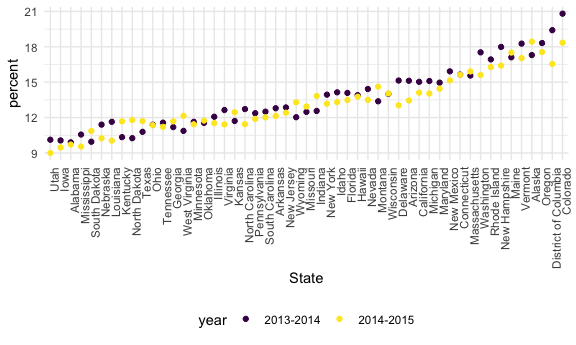
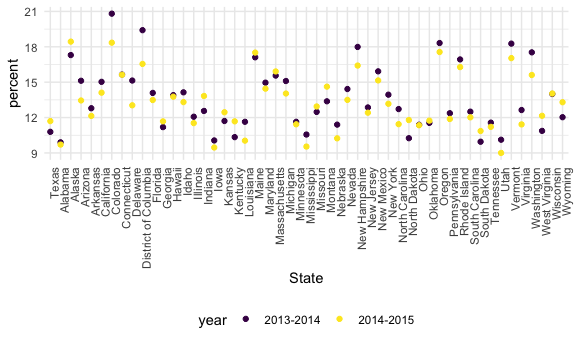
NSDUH -- FACTORS

diff --git a/strings_factors.md b/strings_factors.md
@@ -163,13 +163,28 @@ data_marj =
 #%in% operator in R, is used to identify if an element belongs to a vector or Dataframe
 ```
 
+## NSDUH – FACTORS
+
 ``` r
+#大概是只改一两个的顺序的时候用relevel，想要按照某种顺序排列全部的时候，用reorder
+
 data_marj %>%
   filter(age == "12-17") %>% 
-  mutate(State = fct_reorder(State, percent)) %>% 
+  mutate(State = fct_relevel(State, "Texas")) %>% # 不想在之后作图的时候state作为a-xis以alphabetical order排序，我想state以Texas 作为default state（作图的时候排在前面），注意这里是relevel
   ggplot(aes(x = State, y = percent, color = year)) + 
     geom_point() + 
     theme(axis.text.x = element_text(angle = 90, hjust = 1))
 ```
 
 <img src="strings_factors_files/figure-gfm/unnamed-chunk-11-1.png" width="90%" />
+
+``` r
+data_marj %>%
+  filter(age == "12-17") %>% 
+  mutate(State = fct_reorder(State, percent)) %>% # 不想在之后作图的时候state作为a-xis以alphabetical order排序，我想state以percent从小到大排列作图，注意这里是reorder
+  ggplot(aes(x = State, y = percent, color = year)) + 
+    geom_point() + 
+    theme(axis.text.x = element_text(angle = 90, hjust = 1))
+```
+
+<img src="strings_factors_files/figure-gfm/unnamed-chunk-11-2.png" width="90%" />
